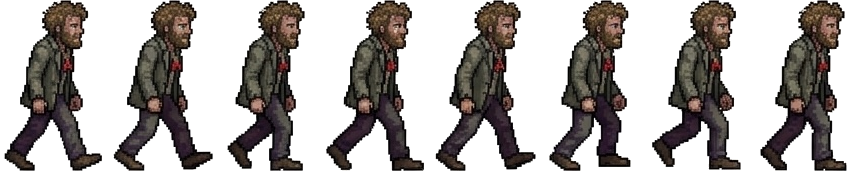
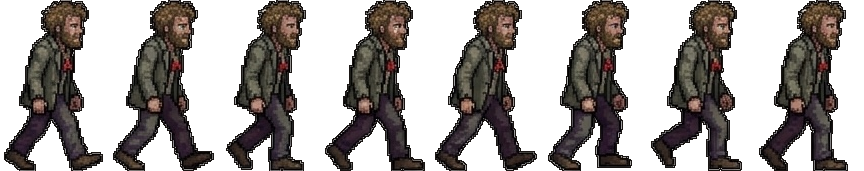
Figuren entrandet (weisser Saum vom Freistellen entfernt) + duenner dunkler Outline fuer saubere Silhouette

diff --git a/script.js b/script.js
@@ -6,7 +6,7 @@
 
 // Sichtbare Build-Marke: zeigt im Header "v7", sobald DIESE Datei geladen ist.
 // Bleibt im Header "v6" stehen, läuft noch eine alte (gecachte) script.js.
-const BUILD_MARKE = 'v30 – Blase & Kamera';
+const BUILD_MARKE = 'v31 – Outline';
 
 // Einheitliche Anzeigehöhen der Figuren (px). Werden auf jede Pose angewandt,
 // damit Front-/Seiten-Sheets gleich groß wirken (unabhängig von der Sheet-Höhe).
